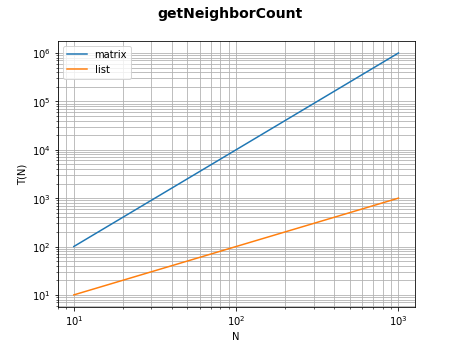
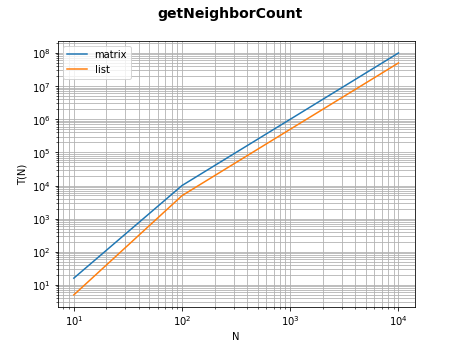
soosos

Changed region(s): [[0.0609, 0.1159, 0.913, 0.9565], [0.0609, 0.3478, 0.0913, 0.3768]]

diff --git a/src/graph/ListGraph.java b/src/graph/ListGraph.java
@@ -8,11 +8,16 @@ import helper.Count;
 public class ListGraph implements iGraph {
 	public List<NodeEdgeList> graphList;
 	public int anzNodes = 0;
+	public List<Node<?>> nodes;
 
 	public ListGraph(List<NodeEdgeList> graphList) {
 		super();
 		this.graphList = graphList;
 		this.anzNodes = graphList.size();
+		nodes = new ArrayList<>();
+		for (int i = 0; i < graphList.size(); i++) {
+			nodes.add(graphList.get(i).node);
+		}
 	}
 
 	@Override
@@ -24,7 +29,6 @@ public class ListGraph implements iGraph {
 	@Override
 	public void addEdge(Edge edge) {
 		addEdge(edge.from, edge.to, edge.weight);
-
 	}
 
 	@Override
@@ -88,19 +92,18 @@ public class ListGraph implements iGraph {
 	}
 
 	/*
-	@Override
-	public void traverse(Node<?> from, Node<?> to) {
-		// TODO Auto-generated method stub
-
-	}
-	*/
+	 * @Override public void traverse(Node<?> from, Node<?> to) { // TODO
+	 * Auto-generated method stub
+	 * 
+	 * }
+	 */
 
 	@Override
 	public List<Node<?>> getNeighbors(Node<?> node) {
 		List<Node<?>> temp = new ArrayList<>();
 		// finde node in graphList
 		int index = 0;
-		
+
 		while (!graphList.get(index).node.equals(node)) {
 			Count.up();
 			Count.neighbor++;
@@ -129,22 +132,16 @@ public class ListGraph implements iGraph {
 		}
 
 		// gucke ob sie eine gemeinsame Edge haben und hole das weight
-		for (int i = 0; i < graphList.get(index).neighbors.size(); i++) {
-			if (graphList.get(index).neighbors.containsKey(nodeB)) {
-				Count.up();
-				Count.getweight++;
-				weight = graphList.get(index).neighbors.get(nodeB);
-			}
+		if (graphList.get(index).neighbors.containsKey(nodeB)) {
+			Count.up();
+			Count.getweight++;
+			weight = graphList.get(index).neighbors.get(nodeB);
 		}
 		return weight;
 	}
 
 	@Override
 	public List<Node<?>> getNodes() {
-		List<Node<?>> nodes = new ArrayList<>();
-		for (int i = 0; i < graphList.size(); i++) {
-			nodes.add(graphList.get(i).node);
-		}
 		return nodes;
 	}
 

diff --git a/src/sample/Sample.java b/src/sample/Sample.java
@@ -18,7 +18,7 @@ import helper.GraphGenerator;
  */
 public class Sample {
 
-	public final static int MAX = 3;
+	public final static int MAX = 4;
 	public final static int BASE = 10;
 	public final static int TIMES = 3;
 
@@ -68,11 +68,14 @@ public class Sample {
     			mgCountSum += Count.count;
     			System.out.println("matrix end");
     			Count.count=0;Count.getweight=0;Count.neighbor=0;
+    			dykmg =null;
+    			System.gc();
     			dyklg = new Dykstra(lg,nodeList.get(j));
     			lgWeightSum += Count.getweight;
     			lgNeighborSum += Count.neighbor;
     			lgCountSum += Count.count;
     			System.out.println("list end");
+    			dyklg=null;
     			System.gc();
     		}
     		f.write(0,";"+mgNeighborSum/TIMES);
